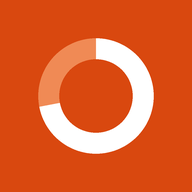
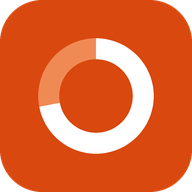
Add files via upload

diff --git a/index.html b/index.html
@@ -11,7 +11,8 @@
   <meta name="apple-mobile-web-app-status-bar-style" content="default" />
   <meta name="apple-mobile-web-app-title" content="FocusFill" />
   <link rel="manifest" href="manifest.webmanifest" />
-  <link rel="icon" href="icon-192.png" type="image/png" />
+  <link rel="icon" href="favicon-32.png" sizes="32x32" type="image/png" />
+  <link rel="icon" href="icon-192.png" sizes="192x192" type="image/png" />
   <link rel="apple-touch-icon" href="apple-touch-icon.png" />
   <link rel="preconnect" href="https://fonts.googleapis.com" />
   <link rel="preconnect" href="https://fonts.gstatic.com" crossorigin />
@@ -23,7 +24,7 @@
       if (t === 'dark' || t === 'light') document.documentElement.dataset.theme = t;
     } catch (e) {}
   </script>
-  <link rel="stylesheet" href="style.css" />
+  <link rel="stylesheet" href="style.css?v=1.0.1" />
 </head>
 <body>
   <div id="test-banner" class="test-banner hidden">테스트 모드 · 이 기기에만 저장돼요</div>
@@ -59,6 +60,7 @@
         <button type="submit" id="auth-submit" class="btn primary wide">로그인</button>
       </form>
       <p class="hint" id="auth-hint">ProFill 아이디와 비밀번호로 바로 로그인할 수 있어요.</p>
+      <p class="app-ver" data-ver></p>
     </div>
   </section>
 
@@ -201,6 +203,6 @@
   </div>
 
   <script src="firebase-config.js"></script>
-  <script src="app.js"></script>
+  <script src="app.js?v=1.0.1"></script>
 </body>
 </html>

diff --git a/app.js b/app.js
@@ -3,6 +3,7 @@
   'use strict';
 
   /* ====================== 상수 ====================== */
+  const APP_VERSION = '1.0.1';
   const EMAIL_DOMAIN = 'iasa-protein.app'; // ProFill과 같은 규칙: 아이디@도메인 (메일은 보내지 않음)
   const ID_RE = /^[a-z0-9_]{3,20}$/;
   const PROFILL_URL = 'https://vsepr09.github.io/ProFill/';
@@ -1160,7 +1161,8 @@
         <h2>계정</h2>
         <p class="muted small" style="margin-top:-6px">${db.mode === 'local' ? '테스트 모드 · 이 기기에만 저장돼요' : '클라우드에 저장 중'}</p>
         <div class="danger-zone"><button class="btn" data-act="logout" type="button">로그아웃</button></div>
-      </section>`;
+      </section>
+      <p class="app-ver">FocusFill v${APP_VERSION}</p>`;
   }
 
   async function settingsUpdate(fields, toastMsg, alsoPublic) {
@@ -1331,6 +1333,7 @@
   /* ====================== 시작 ====================== */
   async function boot() {
     applyTheme(currentTheme());
+    document.querySelectorAll('[data-ver]').forEach((el) => { el.textContent = `FocusFill v${APP_VERSION}`; });
     try { db = useFirebase ? await FirebaseBackend() : LocalBackend(); }
     catch (e) { console.warn('Firebase를 불러오지 못해 테스트 모드로 실행해요.', e); db = LocalBackend(); }
     if (db.mode === 'local') show($('test-banner'));

diff --git a/sw.js b/sw.js
@@ -1,6 +1,7 @@
 // 홈 화면 앱용 서비스 워커: 항상 새 파일을 먼저 받고, 인터넷이 끊기면 저장해 둔 파일을 보여줘요.
-const CACHE = 'focusfill-v2';
-const FILES = ['./', 'index.html', 'style.css', 'app.js', 'firebase-config.js', 'manifest.webmanifest', 'icon-192.png', 'icon-512.png', 'apple-touch-icon.png'];
+const VERSION = 'focusfill-v1.0.1';
+const CACHE = VERSION;
+const FILES = ['./', 'index.html', 'style.css', 'app.js', 'firebase-config.js', 'manifest.webmanifest', 'icon-192.png', 'icon-512.png', 'apple-touch-icon.png', 'favicon-32.png', 'icon-maskable-512.png'];
 self.addEventListener('install', (e) => { e.waitUntil(caches.open(CACHE).then((c) => c.addAll(FILES)).catch(() => {})); self.skipWaiting(); });
 self.addEventListener('activate', (e) => {
   e.waitUntil(caches.keys().then((ks) => Promise.all(ks.filter((k) => k !== CACHE).map((k) => caches.delete(k)))));

diff --git a/style.css b/style.css
@@ -393,3 +393,7 @@ input[type="time"] { width: auto; }
 }
 @media (max-width: 760px) { .toast { bottom: calc(84px + env(safe-area-inset-bottom, 0px)); } }
 .toast-btn { border: none; background: none; color: var(--heat-2); font-weight: 800; padding: 0; }
+
+/* 버전 */
+.app-ver { text-align: center; font-size: .78rem; color: var(--muted); margin-top: 4px; }
+.auth-card .app-ver { margin-top: 14px; }

diff --git a/README.md b/README.md
@@ -1,5 +1,7 @@
 # FocusFill
 
+현재 버전: **v1.0.1**
+
 도파민 대신 집중으로 하루를 채우는 디톡스 웹앱. (1단계: 계정, 온보딩, 진행 시간 타이머, 리셋, 참기)
 
 ## 계정
@@ -17,3 +19,11 @@ Firebase 콘솔 → ProFill 프로젝트 → Firestore → 규칙 탭에 `firest
 - `focusfill_public/{uid}` (나와 친구만): 닉네임 + 공개를 켠 항목(진행 시간, 최장 기록, 레벨, 배지 수, 이번 주 참기)
 - `focusfill_codes/{코드}`: 친구 코드 → 계정 (코드를 알아야만 조회)
 - `focusfill_friendreq/{보낸사람_받는사람}`: 친구 요청/관계
+
+## 버전 기록
+- **v1.0.1** — 노트북(브라우저 탭·설치 앱) 아이콘을 모서리가 둥근 정사각형으로 변경
+- **v1.0.0** — 전체 기능 완성: 배지·경험치·레벨, 달력, 한 줄 일기, 통계, 주간 리포트, 동기 문구, 친구(코드·순위·공개 범위), 설정 전체, ProFill 연결, 주황 테마 디자인
+- **v0.1.0** — 1단계: 아이디 로그인(ProFill 계정 공유), 온보딩, 타이머, 리셋, 참기
+
+## 버전 올리는 곳
+`app.js`의 `APP_VERSION`, `sw.js`의 `VERSION`, `index.html`의 `?v=` 세 곳을 같은 숫자로 바꾸기
